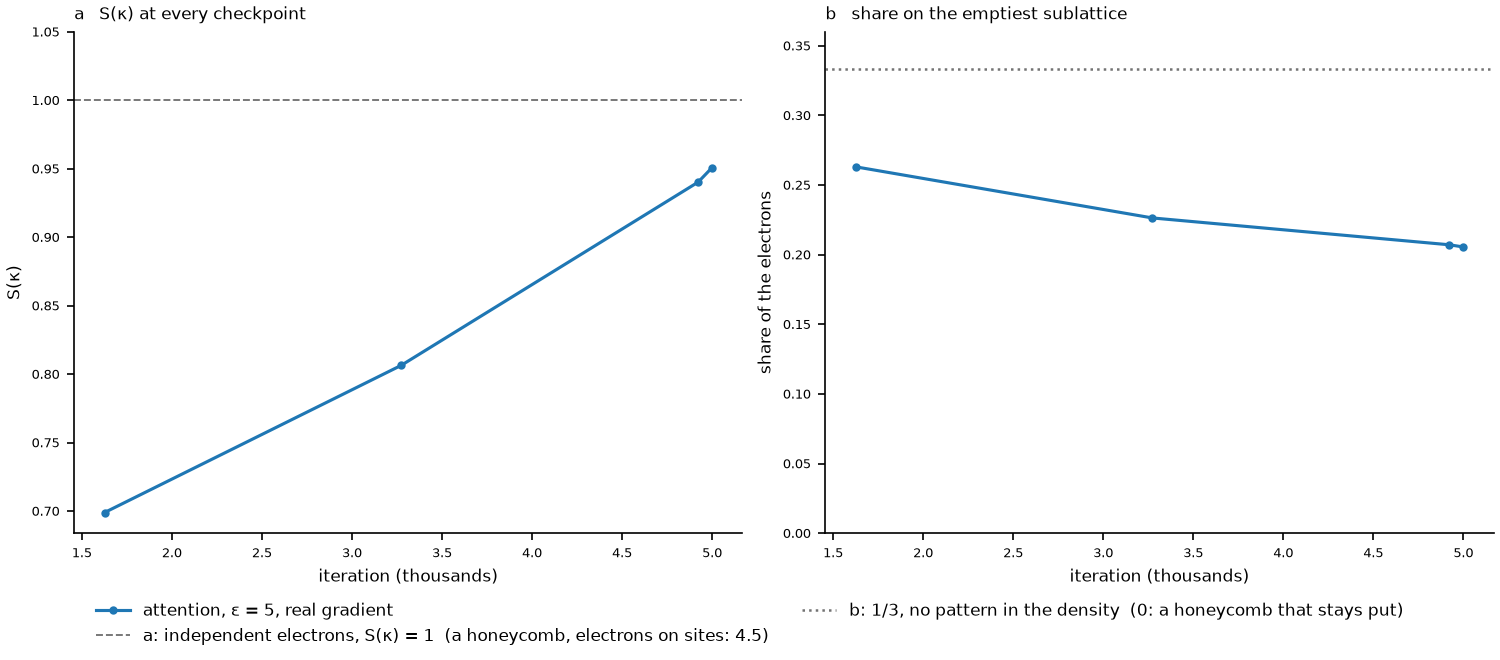
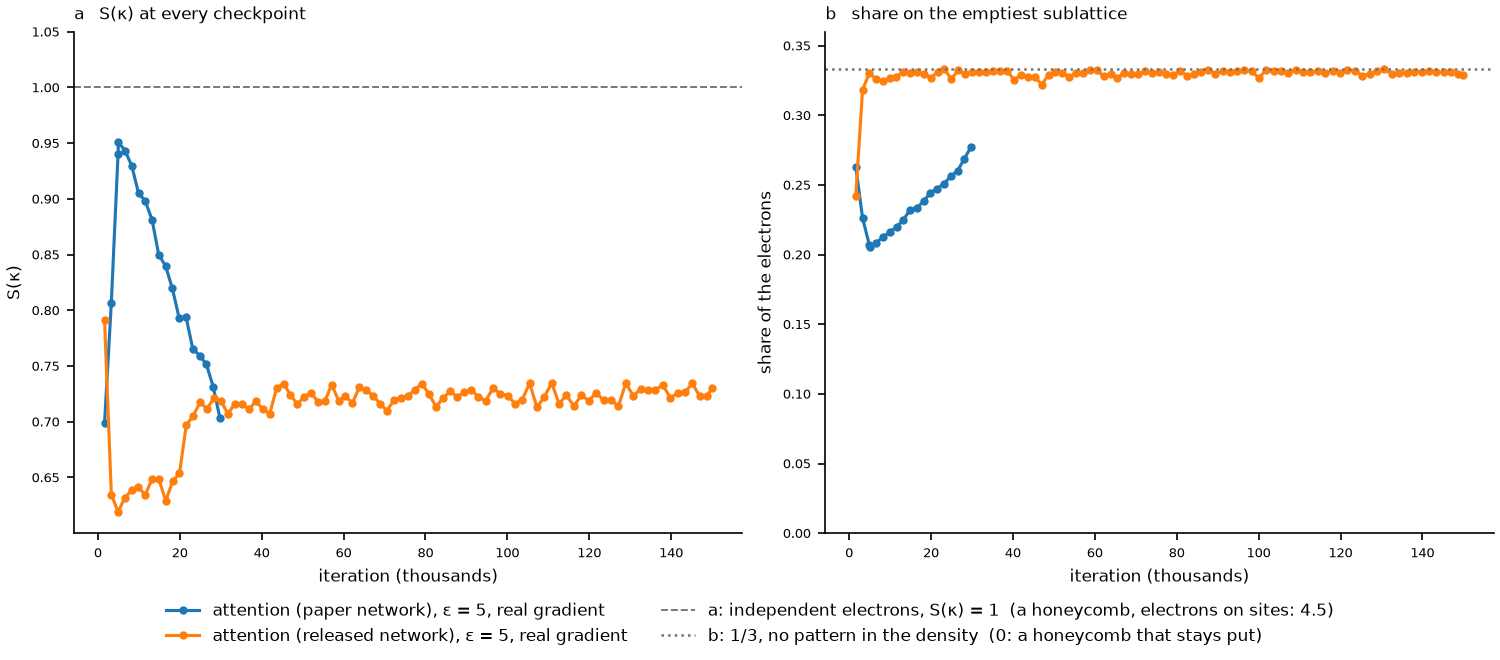
Paper network at 30,000 iterations: the sublattice imbalance fades; legend names the network form
S(kappa) 0.951 (5,000) -> 0.703 (29,814), static part 0.40 -> 0.077, emptiest sublattice
0.205 -> 0.278, while the energy gap to the released network at the same iterations closed from
+1.01 to +0.24 meV/e.  The honeycomb trend of the first 5,000 iterations looks transient.
README: progress note.  checkpoint_structure.py: the legend shows the network form ("paper" or
"released"; folders before 2026-11-08 lack it: released); both result tables byte-identical
after the re-run, only the figure changed.

diff --git a/learn/stage08_own_code/analysis/18_electrons_27_sites/checkpoint_structure.py b/learn/stage08_own_code/analysis/18_electrons_27_sites/checkpoint_structure.py
@@ -152,7 +152,8 @@ def main():
               f"sublattices {last['sublattice_0']:.3f} / {last['sublattice_1']:.3f} / {last['sublattice_2']:.3f}"
               f"  -> {out}")
         it = np.array([r["iteration"] for r in rows]) / 1000
-        label = f"{settings['network']}, ε = {settings['eps']:g}, {settings['gradient']} gradient"
+        form = settings["settings"].get("network_form", "released")     # missing before 2026-11-08: released
+        label = f"{settings['network']} ({form} network), ε = {settings['eps']:g}, {settings['gradient']} gradient"
         line, = ax_s.plot(it, [r["S_kappa"] for r in rows], marker=".", label=label)
         ax_share.plot(it, [min(r["sublattice_0"], r["sublattice_1"], r["sublattice_2"]) for r in rows],
                       marker=".", color=line.get_color())

diff --git a/runs/stage08/18_electrons_27_sites_paper_network_real_gradient/README.md b/runs/stage08/18_electrons_27_sites_paper_network_real_gradient/README.md
@@ -82,6 +82,17 @@ server, one line every 30 minutes into `training/logs/watch.log`: iteration and 
 acceptance, variance, S(kappa) at the newest checkpoint, the GPU; ALERT lines for non-finite
 numbers, a stall, an early stop, a non-zero exit code, or the GPU at 88 C. It only reads.
 
+**Progress at 30,000 iterations** (2026-11-09, 08:50 UTC): the imbalance seen at 5,000 has
+faded steadily since. S(kappa) went from 0.951 to 0.703 (checkpoint 29,814), its static part
+from 0.40 to 0.077, the emptiest sublattice's share from 0.205 to 0.278
+(`results/checkpoint_structure_attention_18e_eps5.csv`; `figures/checkpoint_structure.png`, now
+with the released run beside it). Over the same stretch the gap to the released network's energy
+at the same iterations closed from 1.01 to 0.24 meV per electron (4,500-4,999: -57.644 against
+-58.658; 29,000-29,499: -58.791 against -59.033). Both networks started with one sublattice
+emptier at their first checkpoint (shares 0.263 and 0.242); the paper network kept it longer
+and is now losing it too. So far the honeycomb trend of the first 5,000 iterations looks
+transient.
+
 ## Results
 
 After the run.
